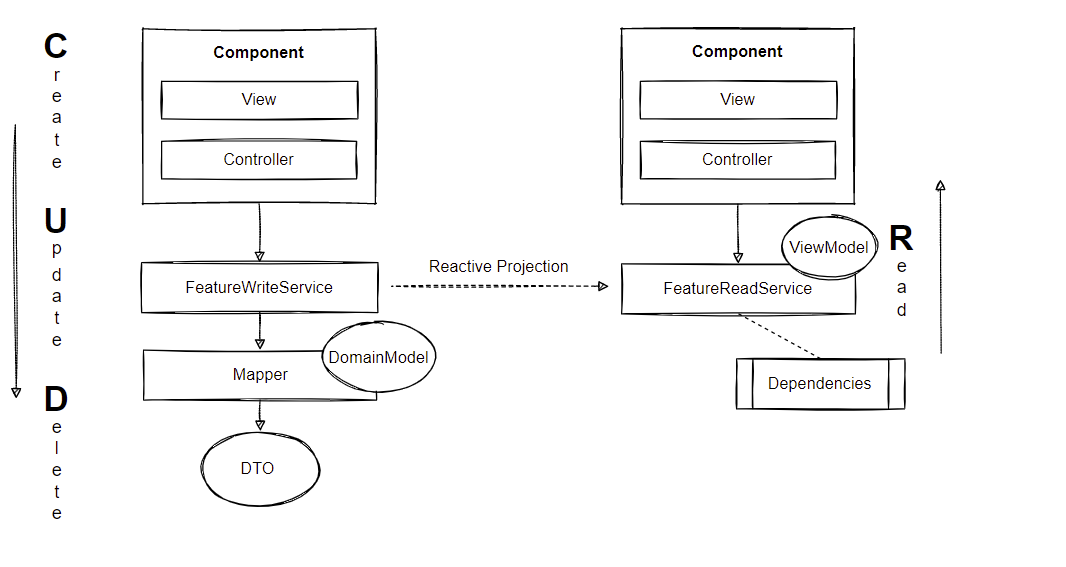
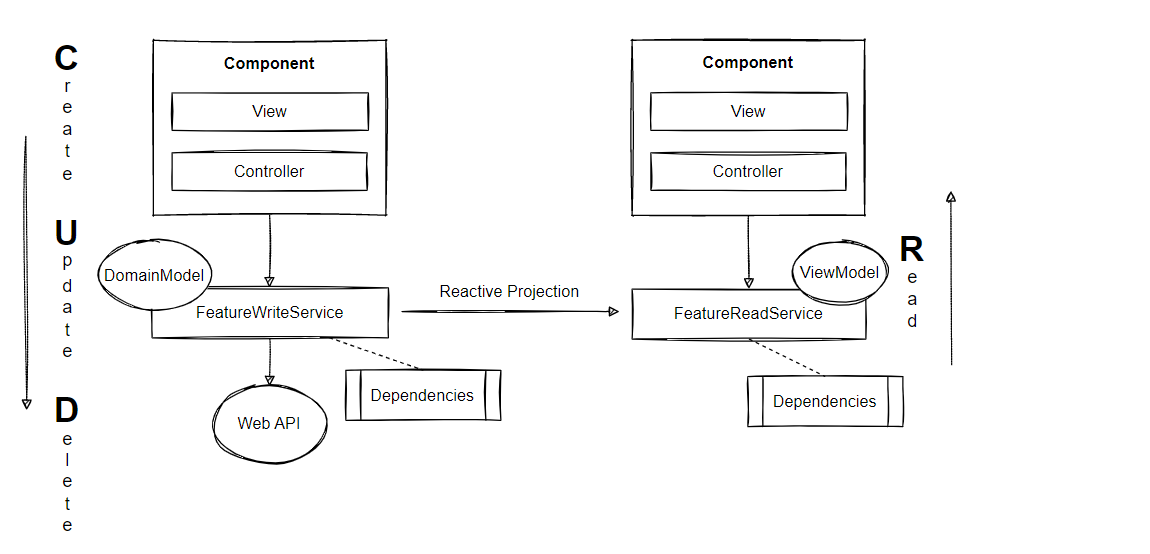
Update

diff --git a/README.md b/README.md
@@ -154,16 +154,12 @@ for our DDD development approach.
 The bounded context pattern divides the domain model into related domain fragments. In a service-based environment a bounded context marks the boundaries of an application service.
 An application service is a concretion of the bounded context pattern! This is similar to **Domain Modules** where we mark the boundaries based on features. Applying the bounded
 context pattern to domain modules allows us to structure Angular applications in a domain-driven approach. Possibly the most difficult part is to identify the bounded context and aggregate boundaries.
-
-The frontend development team should strive to create a context map expressing the relations between domain modules. A bounded context should consist of at least one aggregate
-and might consist of several aggregates.
-
-**A bounded context can be assigned either to an entire page or to page segments.**
+A bounded context should consist of at least one aggregate and might consist of several aggregates. **A bounded context can be assigned either to an entire page or to page segments.**
 
 Since a bounded context represents one or more aggregates, it's sufficient to couple the bounded context to the root URL (root-resource):
 `/BoundedContextA/*API`; `/BoundedContextB/*API`.
 
-Interrelationship between the bounded context pattern and Angular domain modules:
+Frontend development teams should strive to create a context map expressing the relations between domain modules and bounded contexts:
 
 ![](src/assets/images/BoundedContext.png)
 
@@ -172,10 +168,10 @@ The interrelationship between Angular, REST and DDD aggregates requires more lab
 
 **» Folder Structure**<br/>
 
-A common practice in Angular projects is to structure the code base into `/core`, `/shared`, `/features` folders according the **LIFT** principle and the angular.io styleguide:
-https://angular.io/guide/styleguide#overall-structural-guidelines. This will be the foundation for our domain-driven folder structure:
+A common practice in Angular projects is to structure the code into `/core`, `/shared`, `/features` folders according to **LIFT** and the angular.io styleguide:
+https://angular.io/guide/styleguide#overall-structural-guidelines. This will be the foundation for our domain-oriented folder structure:
 
-![](src/assets/images/scaffolding.png)
+![](src/assets/images/scaffolding-ddd.png)
 
 The scaffolding proposed provides inspiration for a discussion of opportunities. Feel free to play around with the folder structure in order to reorganize
 large code base for different purposes.
@@ -375,11 +371,10 @@ class Order {
 
     contructor(){}
     
-    public placeOrder(){}
     public getOrderItems(){}
-    public totalQuantity(){}
-    public changeDeliveryAddress(){}
     public getCustomerId(){}
+    public calcTotalQuantity(){}
+    public changeDeliveryAddress(){}
 }
 ```
 
@@ -542,7 +537,7 @@ in a reactive stream and hand over the result to an object factory.
 
 **» (Domain) Object Factory Pattern:**<br/>
 
-Objects can be constructed using regular constructors or using static factories. The object factory pattern helps us to create complex objects like aggregates that involve the
+Objects can be constructed using regular constructors or using static factories. The object factory pattern helps us to build complex objects like aggregates that involve the
 creation of other related objects and more importantly assists in type safety with ES6+ features such as spread, rest, destructuring where type information might get lost.
 Object factories and mappers help us to manage immutability by retrieving new instances when needed, instead of using generic JSON.parse/.stringify or deep-cloning algorithms.
 
@@ -871,10 +866,10 @@ to Domain-Driven Design practices.
 
 The purpose of the application service is to orchestrate workflows and defining the use cases of the application.
 
-- Application services don't represent domain concepts, and they don't contain business rules
+- Application services don't represent domain concepts, and they don't implement business rules
 - They are stateless and procedural, but sometimes need to hold state of a user journey or business flow
 - They may use a domain service to perform a domain-specific task
-- They are also the place to elaborate view models of domain state
+- They are also the place to elaborate view models out of domain state
 - Application service methods are also called command handlers
 
 ```
@@ -908,9 +903,10 @@ router navigation our components are destroyed, and so is the application logic.
 
 **» Domain Service Objects**<br/>
 
-The purpose of the domain service is to provide a set of business tasks that doesn't fit inside entities or value objects.
+The purpose of a domain service is to provide a set of business tasks that don't fit inside entities or value objects.
 
-- They perform operations and calculations requiring input from multiple domain entities to validate composite business rules of object compositions
+- They perform operations and calculations requiring input from multiple domain entities to validate composite business rules 
+- They transform domain object compositions to new domain object representations
 - They have no identity, and they are stateless and procedural
 - A domain service can use a domain entity, or a domain entity can use a domain service (Impure Domain Model!)
 - Repositories are domain services, if not applicable to DIP
@@ -940,10 +936,6 @@ is not the decisive factor, but rather the task that needs to be performed. When
 The purpose of the infrastructure service is to handle cross-cutting concerns such as tracing services or persistence services.
 They should never call a domain entity, but they can be called by domain entities!
 
-**» User Interface Service Objects**<br/>
-
-UI services manage UI Logic and UI State such as a loading spinner service.
-
 **» Stateful Services vs. Stateful Repositories**<br/>
 
 Just as mentioned before, it's common for Angular projects to use feature services for business functionality and state management.
@@ -964,15 +956,14 @@ implement the "projection phase" between the read and write side, which we will 
 ## CQRS
 
 With traditional CRUD-based web applications conform to the REST architectural style and the single data model approach, we may fall into the situation
-where we have to stitch together several resources to build a rich (view) model. Even in the case of RPC-style Web APIs, it's likely that we will encounter
-problems of this kind. Developers often use view controller methods to build view models that in the end leads to monolithic view controllers:
+where we need to stitch together multiple resources to build a rich (view) model. Developers often use view controller methods to accomplish this task:
 
 ![](src/assets/images/Up_Down_Flow.png)
 
 The domain model focuses on business logic rather than presentation needs. Having a view model provider to manage complicated page flows and user
 interfaces allows us to query the appropriate view model for different view patterns. A view model provider is a perfect fit to pre-compute filtering and sorting
 logic (https://angular.io/guide/styleguide#style-04-13). That is, the CQRS pattern helps us to avoid over-bloated all-in-one models.
-The CQRS pattern may overcomplicate a frontend application, instead of simplifying it. Use it with care!
+The CQRS pattern may overcomplicate frontend architectures, instead of simplifying it. Use it with care!
 
 CQRS in the frontend design system has many advantages:
 
@@ -982,11 +973,11 @@ CQRS in the frontend design system has many advantages:
 - Immutable view models comply with the `.onPush` strategy
 - sort() and filter() pipes can be detached from templates (https://angular.io/guide/styleguide#do-not-add-filtering-and-sorting-logic-to-pipes)
 
-The view model provider may appear in different forms. It may appear as a query method in an application service, as a resolver or as a special-purpose class:
+The view model provider may appear in different forms. The provider may appear in form of a query method in an application service, a resolver or a query object:
 
 **» CQS using Feature Services**
 
-Using a single feature service or repository service for reads and writes:
+Using a single feature service (repository service) for reads and writes:
 
 ![](src/assets/images/SingleService_CQRS.png)
 
@@ -1028,14 +1019,34 @@ class ProductsService {
 }
 ```
 
-The single feature service approach can make it difficult to integrate data from multiple sources and could lead to circular dependencies when using other feature services.
+The single feature service approach makes it difficult to collect data from multiple sources and can lead to circular dependencies when using by other feature services.
 
-**» CQRS with DDD Tactical Patterns using Providers**<br/>
+**» CQRS using Feature Services for Reads and Writes**
 
-![](src/assets/images/Reactive_Flow.png)
+![](src/assets/images/Service_CQRS.png)
 
-Typically, application services provide query methods for retrieving view models of domain state (CQS). However, for complicated page flows and user interfaces
-it would be inefficient to build view models in a query method, due to the large number of additional dependencies required. Instead, we can use view model provider
+**» CQRS using Command and Query Handlers and DDD Patterns**<br/>
+
+![](src/assets/images/Service_CQRS_CQ.png)
+
+```
+class CommandHandlers {
+  handleUseCaseCommand1(cm1) {...}
+  handleUseCaseCommand2(cm2) {...}
+}
+
+class QueryHandlers {
+  handleUseCaseQuery1() {...}
+  handleUseCaseQuery2(qm2) {...}
+}
+
+* cm=Command Model
+* qm=Query Model
+```
+**» CQ(R)S using Application Services**<br/>
+
+Typically, application services provide query methods for retrieving view models out of domain state (CQS). However, for complicated page flows and user interfaces
+it would be inefficient to build view models in a query method, due to the large number of additional dependencies. Instead, we can use view model provider
 services to facilitate access to view models in a more efficient way. Consequently, an application service, resolver service, view controller or any other component
 can use the view model provider service to retrieve presentation data. On the other hand, having a single application service for reads and writes reduces
 boilerplate code!
@@ -1097,8 +1108,8 @@ class Order extends OrderViewModel {
 ``` 
 
 This implementation has some drawbacks either. It only works for a single entity!
-What if a view model requires several sources? We can create a special-purpose class in form of a view model provider service!
-The purpose of the view model provider service is to tailor view models for specific use cases.
+What if a view model requires several sources? We can use a special-purpose class in form of a view model provider!
+The purpose of the view model provider is to return view models for specific use cases.
 
 ```
 @Injectable()
